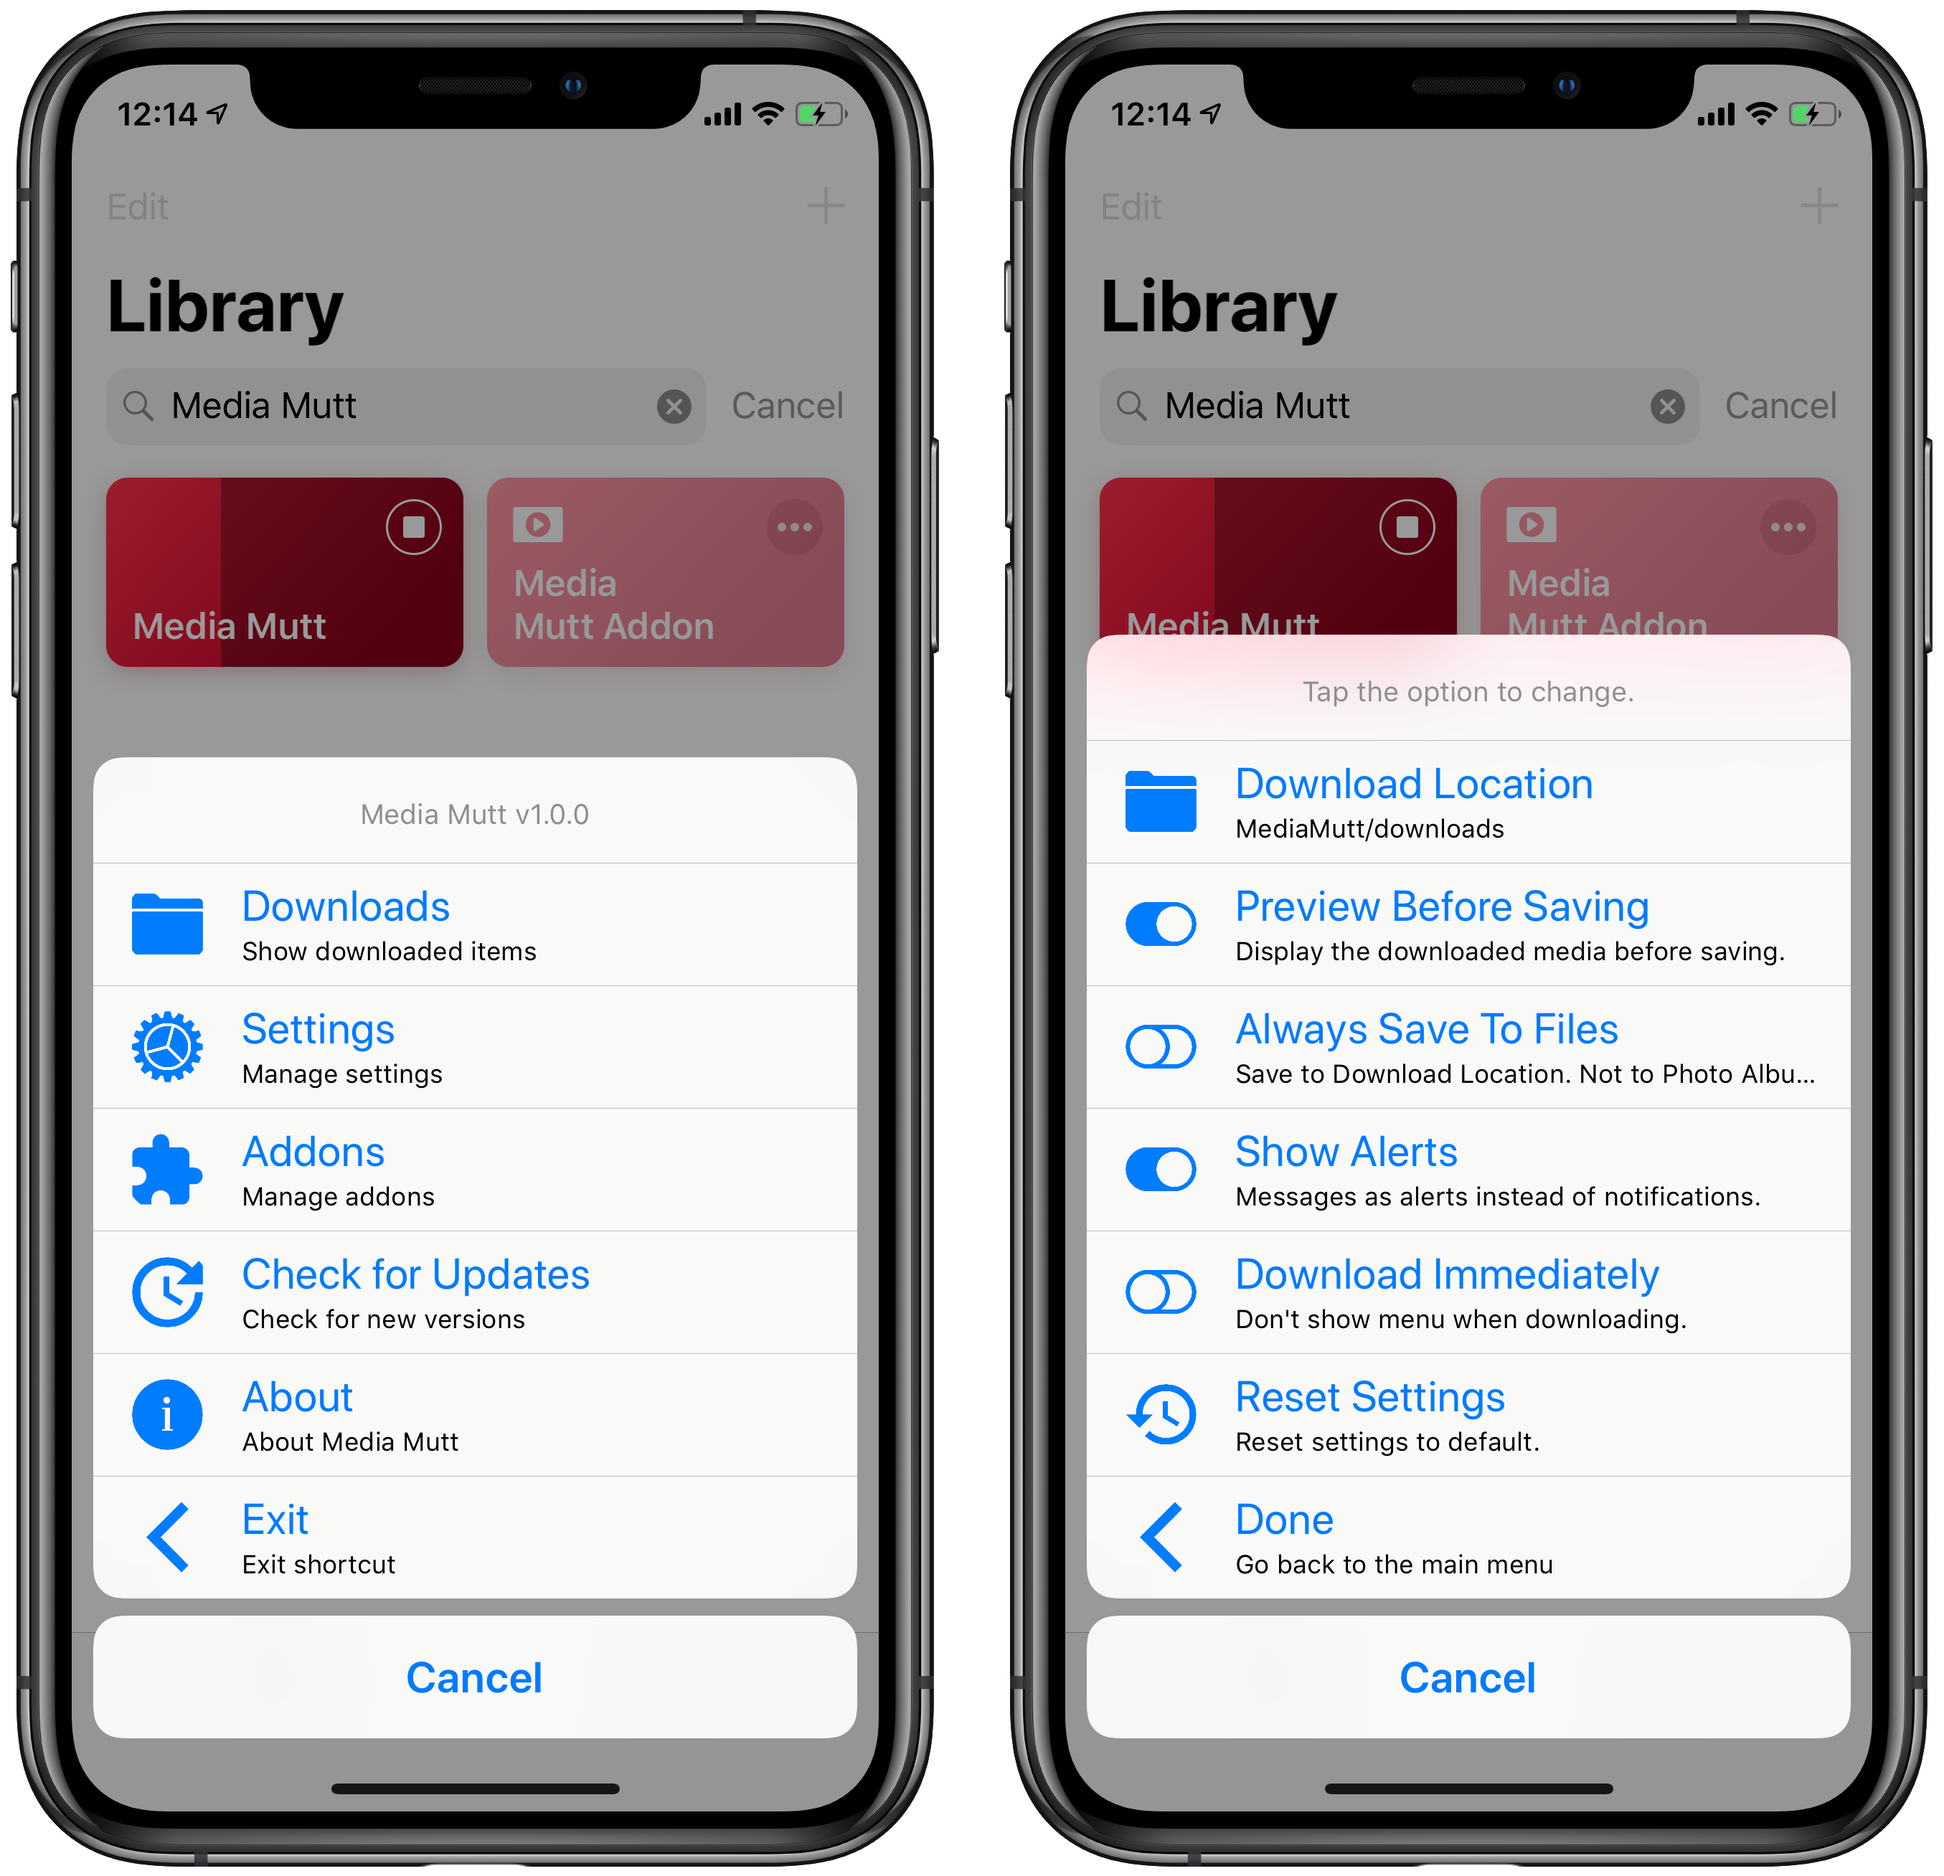
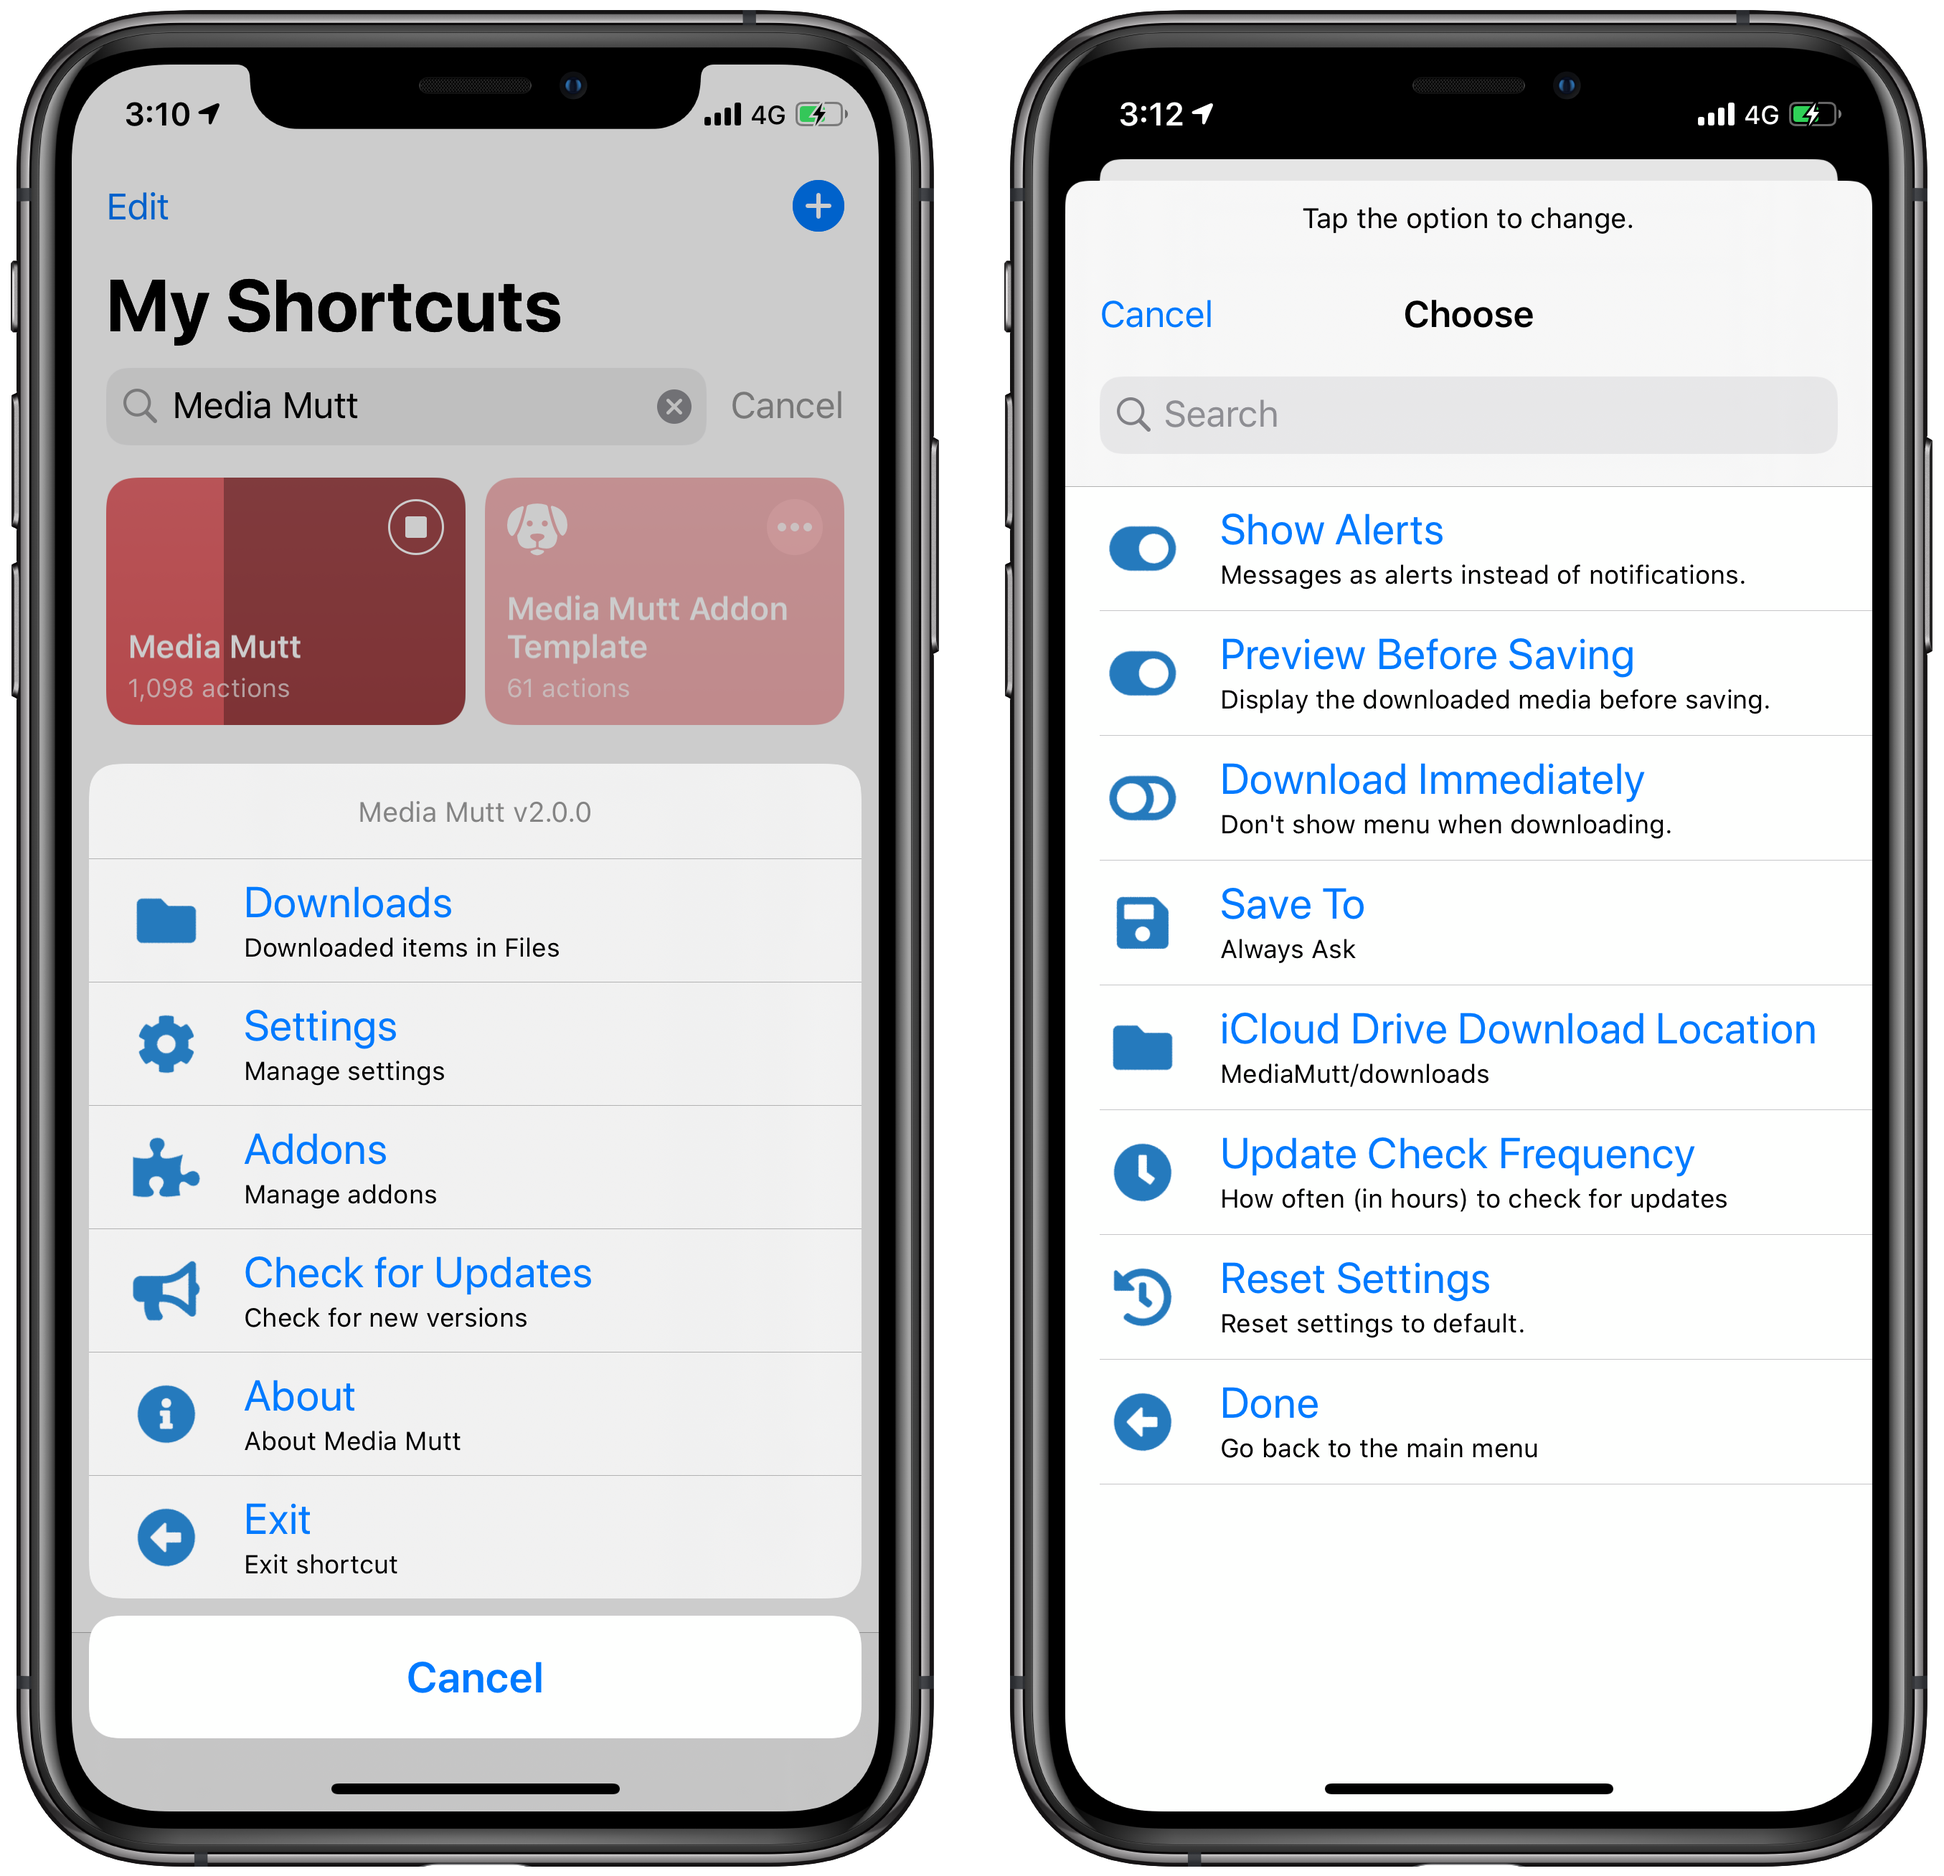
Media Mutt 2.0.0 docs update

diff --git a/MediaMutt/docs/index.md b/MediaMutt/docs/index.md
@@ -18,7 +18,7 @@ Streamable
 
 ## Addons
 
-Dailymotion • Facebook Post (Photo/Video)
+Dailymotion • Facebook Post (Photo/Video) * Instagram Profile * Vero
 
 ## Creating Addons
 
@@ -34,7 +34,7 @@ If you are interested in authoring addons, check out the [authoring guide](makin
 
 ## Credits
 
-* I wouldn't have been able to build this complex shortcut without [ScPL](https://scpl.dev). Well I could but it would've taken me months. This took less than 2 weeks.
-* Icons from [https://fa2png.io]
+* I wouldn't have been able to build this complex shortcut without [ScPL](https://scpl.dev).
+* Icons from: https://fontawesome.com/ courtesy of @atnbueno over at Discord
 * YouTube Downloading method - https://tyrrrz.me/Blog/Reverse-engineering-YouTube
 * Audio/Video merging: http://www.fileconverto.com/add-music-to-video/

diff --git a/MediaMutt/docs/changelog.md b/MediaMutt/docs/changelog.md
@@ -1,5 +1,11 @@
 # Media Mutt Changelog
 
+* Media Mutt 2.0.0
+  - (fix) iOS 13 issues
+  - (new) Use reddit post title as name
+  - (fix) Download is not saved
+  - (fix) Last update date not saved correctly
+
 * Media Mutt 1.4.0
   - (new) Customizable update frequency
   - (new) Adaptive menu when update is available
